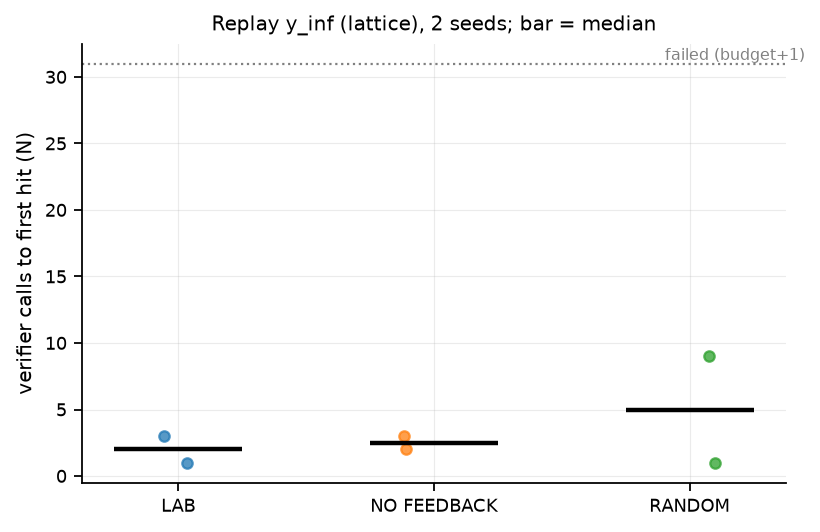
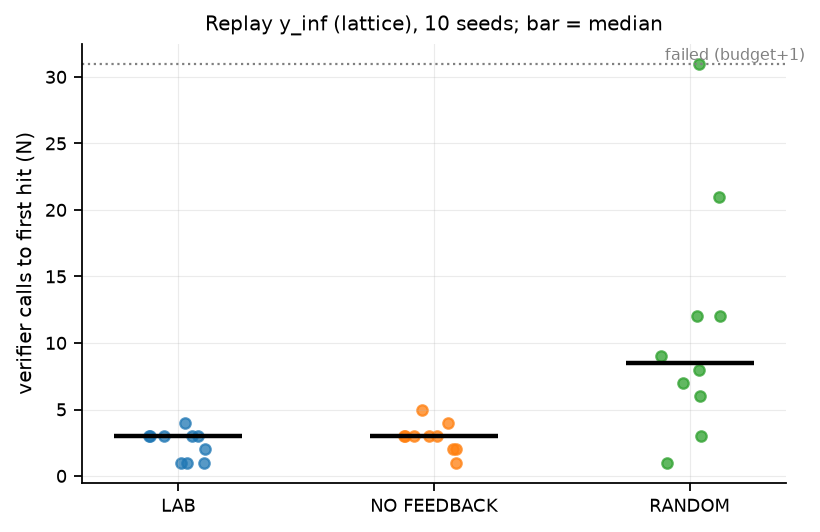
Replay-Benchmark H7 abgeschlossen (10 Seeds): LAB vs. ZUFALL 4,6x (KI 2,6-7,5, p=0,003) bestätigt; LAB vs. OHNE_FEEDBACK 1,2x (KI 0,82-1,85, p=0,26) nicht belegt; README: Measured acceleration, Use it in your own Claude
Claude-Session: https://claude.ai/code/session_01G6EkktcgsUhAFxJnMn3Zcv

diff --git a/README.md b/README.md
@@ -29,6 +29,78 @@ fünf geprüfte numerische Befunde zu offenen Fragen aus Suleman 2026 (`results/
 
 
 
+
+
+## Measured acceleration (preregistered replay, H7)
+
+Task: rediscover a known result without access to it (domain `lattice`, limit aspect ratio y_∞ ≈ 1.249621 of the optimal 2D lattice for
+ν → ∞). Leak guard: Suleman 2026 and derived knowledge files blocked; canary test of the whole agent context green before every run.
+Hit = a claim of type `grenzwert`/`y_inf` accepted by the unchanged verifier (numerical verifier, fixed tolerance 2·10⁻⁴ — not a proof).
+Metric N = verifier calls to the first hit (31 = failed within budget 30). 10 seeds per condition, same models and budget
+(`python -m benchmarks.replay_lattice`, raw data `results/replay_lattice/`, summary `results/replay_lattice.json`, figure `results/replay_lattice.png`).
+
+| Condition | N per seed | mean N | hits (95 % Clopper-Pearson) | mean wall time | rejected claims / run |
+|---|---|---|---|---|---|
+| LAB (integrator, code planner, verifier feedback, learning) | 1 3 3 3 3 1 4 3 1 2 | **2.4** | 10/10 (0.69–1.00) | 284 s | 0.9 |
+| NO FEEDBACK (same researchers, independent attempts) | 2 3 1 3 4 3 2 3 5 3 | 2.9 | 10/10 (0.69–1.00) | 306 s | 1.2 |
+| RANDOM (random sub-questions, no integrator/learning) | 9 1 6 8 12 7 12 21 3 31 | 11.0 | 9/10 (0.55–1.00) | 706 s | 2.5 |
+
+- **H7a, LAB vs. RANDOM: speedup 4.6× (paired bootstrap 95 % CI 2.6–7.5), one-sided paired permutation p = 0.003 (BH-adjusted 0.006) → supported.**
+- **H7b, LAB vs. NO FEEDBACK: 1.2× (CI 0.82–1.85), p = 0.26 → not supported.** On this easy task the gain comes from choosing the right
+  question, not from verifier feedback between attempts; the task is too easy (N ≤ 5 without feedback) to measure the feedback effect.
+- No human baseline was measured. "One paper in one night, about 12–14 h" for the authors' manual work is an estimate, not a measurement.
+
+## Use it in your own Claude (MCP server `probatum`)
+
+**Your Claude is the researcher; probatum is the only one that accepts claims.** `probatum` exposes the lab as a local stdio MCP server:
+your Claude proposes experiments and typed claims, probatum runs the experiments and decides every claim with the domain's code verifier
+(exact rational certificates, symbolic proofs, fixed tolerances). No API key, no LLM calls, no shell, no network inside the server.
+
+Requires [uv](https://docs.astral.sh/uv/) (`uvx`). The repository must be reachable for your git (public, or your GitHub credentials).
+`@claude/probatum-mcp` pins the branch the server currently lives on; drop it once merged into the default branch.
+
+**Claude Desktop** — edit `claude_desktop_config.json` (macOS `~/Library/Application Support/Claude/`, Windows `%APPDATA%\Claude\`):
+```json
+{
+  "mcpServers": {
+    "probatum": {
+      "command": "uvx",
+      "args": ["--from", "git+https://github.com/alizema700/HackNation-Ninja-Turtles@claude/probatum-mcp", "probatum-mcp"]
+    }
+  }
+}
+```
+Restart Claude Desktop, then pick the prompt **research_round** (or **verify_my_result**) from the attachment/prompt menu.
+
+**Claude Code** — one command (the `--` separates the server command):
+```bash
+claude mcp add --scope user probatum -- uvx --from git+https://github.com/alizema700/HackNation-Ninja-Turtles@claude/probatum-mcp probatum-mcp
+```
+
+**Claude Code plugin** (MCP server + the `verifier-gated-lab` skill):
+```
+/plugin marketplace add alizema700/HackNation-Ninja-Turtles
+/plugin install probatum@probatum
+```
+(`claude plugin validate --strict` passes for `plugin/` and `.claude-plugin/marketplace.json`.)
+
+| Tool | What it does |
+|---|---|
+| `list_domains` | domains (`lattice`, `proofreading`) with experiment and claim types |
+| `selftest(domain)` | verifier self-test (known true/false statements); **all other tools refuse a domain until it passed in this session** |
+| `describe(domain)` | context, experiment primitives and claim types with field schemas, rules |
+| `run_experiment(domain, spec)` | `{"op", "args"}` → experiment id + compact result (errors as `{"fehler": ...}`) |
+| `submit_claim(domain, claim)` | the only way to confirm a result: `bestanden`, `level`, `grund`, `claim_id`; tolerance fields are removed and reported, unknown fields rejected |
+| `challenge_claim(domain, claim_id, counter_claim)` | red-team by your Claude; a passing, contradicting counter-claim marks the claim contested |
+| `list_claims`, `research_record` | confirmed / contested / rejected claims; every call is logged |
+| `build_paper(domain, title, authors)` | confirmed claims + rejected attempts + writing rules (your Claude writes; every number must come from a claim) |
+
+Resources: `probatum://domains/{domain}/claims`, `probatum://domains/{domain}/record`, `probatum://guide`. Prompts: `research_round`, `verify_my_result`.
+Data: `PROBATUM_HOME` (default `~/.probatum/<domain>/state.json`, `record.jsonl`). Limits: `PROBATUM_TIMEOUT` (default 120 s per computation,
+hard-killed subprocess), `PROBATUM_SELFTEST_TIMEOUT` (900 s). Tests: `pytest tests/test_mcp_server.py` (9 tests: self-test gate, valid claim
+confirmed, claim shifted by 1e-6 rejected, own tolerance ignored, unknown field rejected, timeout), `python tests/mcp_protocol_check.py --voll`
+(real stdio session: lists tools/resources/prompts, self-test, one confirmed and one rejected claim). Example session: [`docs/probatum_example_session.md`](docs/probatum_example_session.md).
+
 ## Omnigent orchestration
 
 **Agents propose, Omnigent orchestrates, only the code verifier accepts.** The lab (`asd/`) stays the source of truth (verifier
